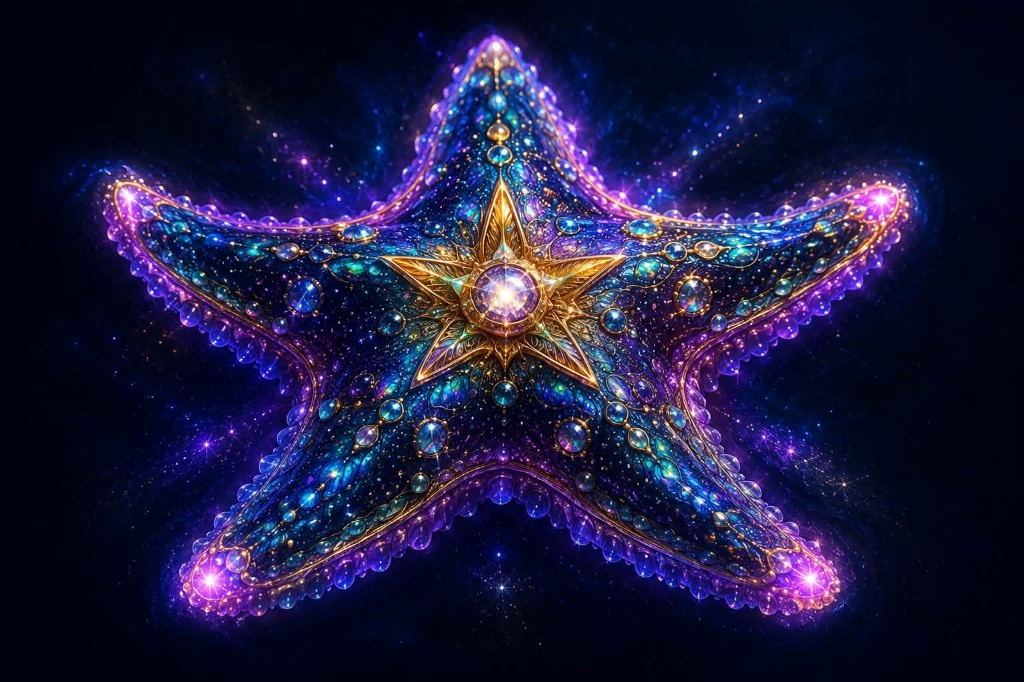
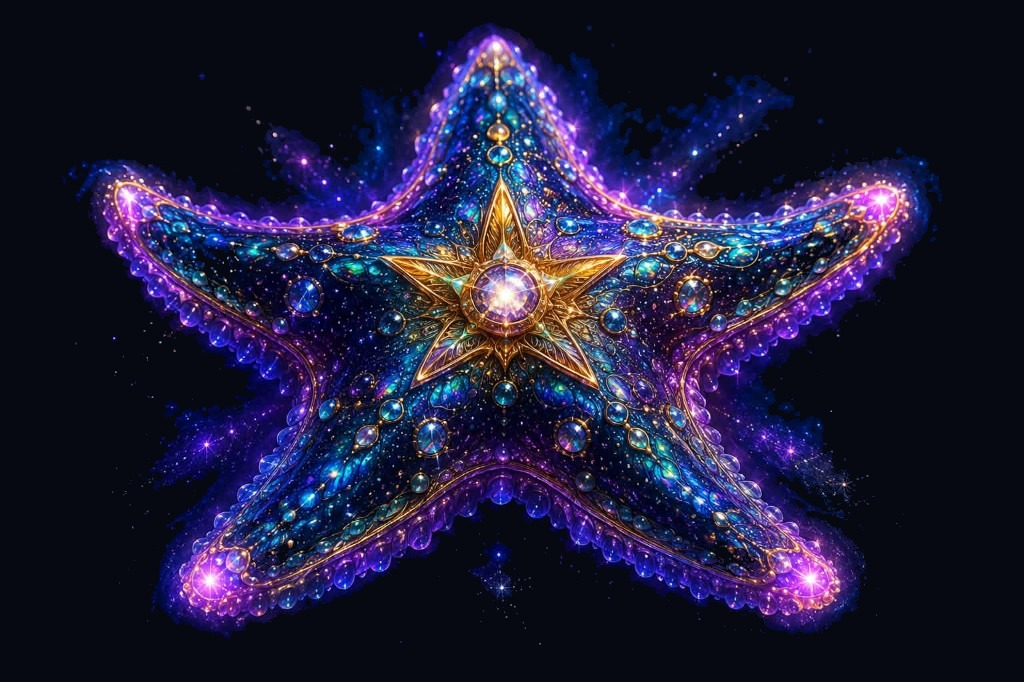
Fix Starfish art cache and add Desert Lagoon pond ambience.

diff --git a/src/main.js b/src/main.js
@@ -43,7 +43,7 @@ import {
     FrozenFjordsAmbience,
     pauseAllLoopingAmbiences,
     resumeAllLoopingAmbiences
-} from './audio/locationMusic.js?v=20260717-fjord-coral';
+} from './audio/locationMusic.js?v=20260717-desert-lagoon';
 import { VOICEOVER_TAP_COOLDOWN_MS, VOICEOVER_ANACONDA_COOLDOWN_MS } from './config/voiceover.js';
 
 /** How close the snake must pass Halley's look point (world XZ) to trigger a bark. */
@@ -2307,7 +2307,8 @@ export class Game {
         const playCelestial = location?.waterBodyType === 'CELESTIAL'
             && this.player?.canAccessCelestialDepths?.() === true;
         const playAmazon = location?.name === AMAZON_DEPTHS_NAME;
-        const playCrescentPond = location?.name === CRESCENT_POND_NAME;
+        const playCrescentPond = location?.name === CRESCENT_POND_NAME
+            || location?.name === DESERT_LAGOON_NAME;
         const playCortez = location?.name === CORTEZ_BACKWATERS_NAME;
         const playSandyShoals = location?.name === SANDY_SHOALS_NAME;
         const playSoftOcean = location?.name === TWILIGHT_TRENCH_NAME

diff --git a/src/utils/imageAssets.js b/src/utils/imageAssets.js
@@ -4,9 +4,11 @@
 
 export function getFishImagePaths(fishName) {
     if (fishName === 'Starfish of Eternity') {
+        // Cache-bust: SW is cache-first for images; bump when starfish art changes.
+        const bust = '?v=20260717b';
         return {
-            primary: 'assets/images/StarfishofEternity.webp',
-            fallback: 'assets/images/StarfishofEternity.jpg'
+            primary: `assets/images/StarfishofEternity.webp${bust}`,
+            fallback: `assets/images/StarfishofEternity.png${bust}`
         };
     }
     const base = `assets/images/${fishName}`;

diff --git a/service-worker.js b/service-worker.js
@@ -1,5 +1,5 @@
 const CACHE_PREFIX = 'halleys-big-catch-media';
-const CACHE_VERSION = 'v33';
+const CACHE_VERSION = 'v34';
 const CACHE_NAME = `${CACHE_PREFIX}-${CACHE_VERSION}`;
 
 /** App shell + prologue images only — audio and game assets load on demand. */
